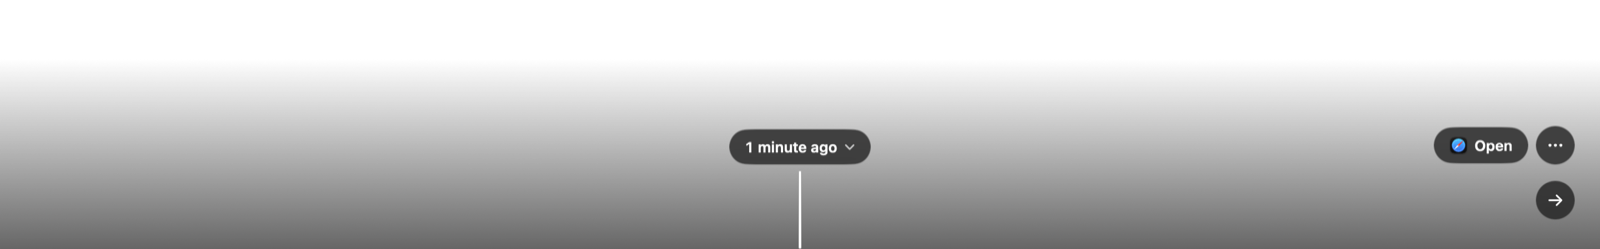
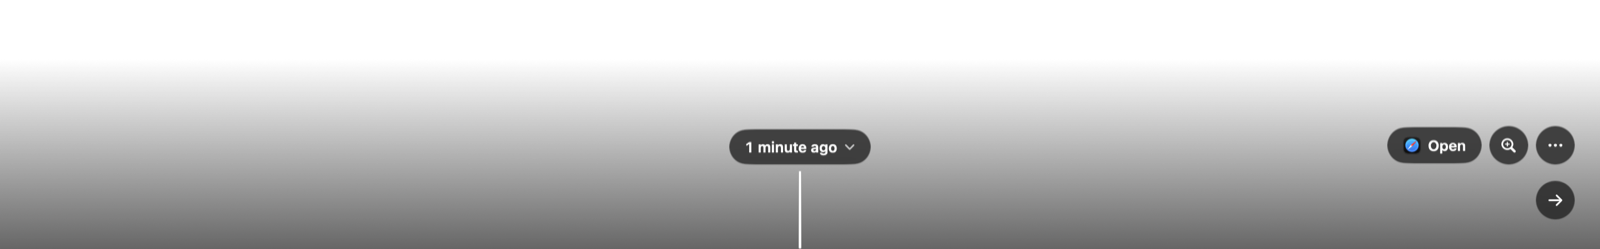
Update the README and notes for faster cold scrubbing, and refresh the contrast image

Changed region(s): [[0.8438, 0.506, 0.9688, 0.6747]]

diff --git a/README.md b/README.md
@@ -533,7 +533,7 @@ With Accessibility on, an event tap takes the ⌘⇧ swipe away from the app und
 
 ### Scrubbing
 
-Scrubbing outruns decoding, so the engine always works on the latest request and skips any in between. It decodes every frame when the playhead is slow, only keyframes when it's fast, and when it stops it decodes the exact frame and then the groups on either side, so the next step is instant. The picture never blanks: until the right frame is ready, the closest cached one stays up. The cache takes 10% of memory, between 700 MB and 1.4 GB, and is freed when the overlay closes.
+Scrubbing outruns decoding, so the engine always works on the latest request and skips any in between. It decodes every frame when the playhead is slow, only keyframes when it's fast, and when it stops it decodes the exact frame and then the groups on either side, so the next step is instant. It gives the hardware decoder a group's frames together, so it can work on several at once, and starts no more once a newer request arrives. The picture never blanks: until the right frame is ready, the closest cached one stays up. The cache takes 10% of memory, between 700 MB and 1.4 GB, and is freed when the overlay closes.
 
 ### When things go wrong
 
@@ -561,7 +561,7 @@ Remind uses system Liquid Glass with its own accent, verdigris, the patina time 
 
 **Controls stay readable over anything.** A recorded frame can be any colour, and glass over a white page reads as pale grey. Liquid Glass also adapts any tint to what's behind it, so a tint made things worse. Control text sits on a 60% black fill under the glass instead, which took the time pill from 2.29:1 to 8.18:1 over a white page. `make scenarios` holds it to 4.5:1 on white, black, saturated, and noisy backdrops.
 
-![The timeline's controls over an all-white page: the time pill, the Open button, and the more and back-to-now buttons, all with white text on dark pills](docs/images/contrast-white.png)
+![The timeline's controls over an all-white page: the time pill, the Open button, and the zoom, more, and back-to-now buttons, all white on dark pills](docs/images/contrast-white.png)
 
 ## Measurements
 
@@ -585,10 +585,10 @@ These come from [docs/spikes.md](docs/spikes.md), which has the full results and
 |---|---|---|---|---|
 | Cached scrub | 0.1 ms | 0.1 ms | 0.1 ms | p95 25 ms |
 | Backward miss, exact frame | 43 ms | 78 ms | 136 ms | p95 120 ms, p99 280 ms |
-| Backward miss, first change | 43 ms | 78 ms | 136 ms | 50 ms, **missed at p95** |
+| Backward miss, first change | | 41 ms | | 50 ms |
 | Fast flick, per update | 0.2 ms | 14 ms | 15 ms | Keeps up with 60 Hz |
 
-The missed budget is the fully cold case, with nothing nearby in the cache. In real scrubbing a nearby frame shows first.
+The first-change row is the fully cold case, with nothing nearby in the cache, and that first change is the exact frame. It used to miss its budget, at 77 ms, until groups were decoded asynchronously, which takes a group of 30 from 45 ms to 31 ms. Only that one figure has been written down since, so the exact-frame row is from before the change.
 
 **Text recognition.** 2,000 frames at 3024×1964, while other heavy work was running:
 

diff --git a/docs/spikes.md b/docs/spikes.md
@@ -269,15 +269,18 @@ underneath staying still is unproven. Its routing rules are unit tested.
 |---|---|---|---|---|
 | Cached scrub | 0.1 ms | 0.1 ms | 0.1 ms | p95 25 ms |
 | Backward miss, exact frame | 43 ms | 78 ms | 136 ms | p95 120 ms, p99 280 ms |
-| Backward miss, first change | 43 ms | 78 ms | 136 ms | 50 ms: **missed at p95** |
+| Backward miss, first change | | 41 ms | | 50 ms |
 | Fast flick, per update | 0.2 ms | 14 ms | 15 ms | Keeps up with 60 Hz |
 | Reading a group of 1.5 MB | 10 ms | 12 ms | 12 ms | |
 | Creating a decoder | 2 ms | 3 ms | 3 ms | |
 | Decoding a frame | 2.2 ms | 2.2 ms | 2.2 ms | Plan assumed 8 ms |
 
-The first-change miss is the fully cold case, with nothing nearby in the cache. In real scrubbing a
-nearby frame shows first. Showing the group's keyframe sooner would meet the number, but going backward
-it would jump past the target and return, which is worse to look at. So it stays as it is.
+The first-change row is the fully cold case, with nothing nearby in the cache. It used to miss its
+budget, at 77 ms at p95. Showing the group's keyframe sooner would have met the number, but going
+backward it would jump past the target and return, which is worse to look at. Decoding groups
+asynchronously met it instead. The hardware can work on several frames at once, so a group of 30 takes
+31 ms instead of 45 ms, and a cold miss now first changes the picture in 41 ms at p95, still on the exact
+frame. Only that p95 has been written down since, so the other rows are from before the change.
 
 Colour tags reaching the surface, lossless surfaces, and haptics aren't measured yet.
 
